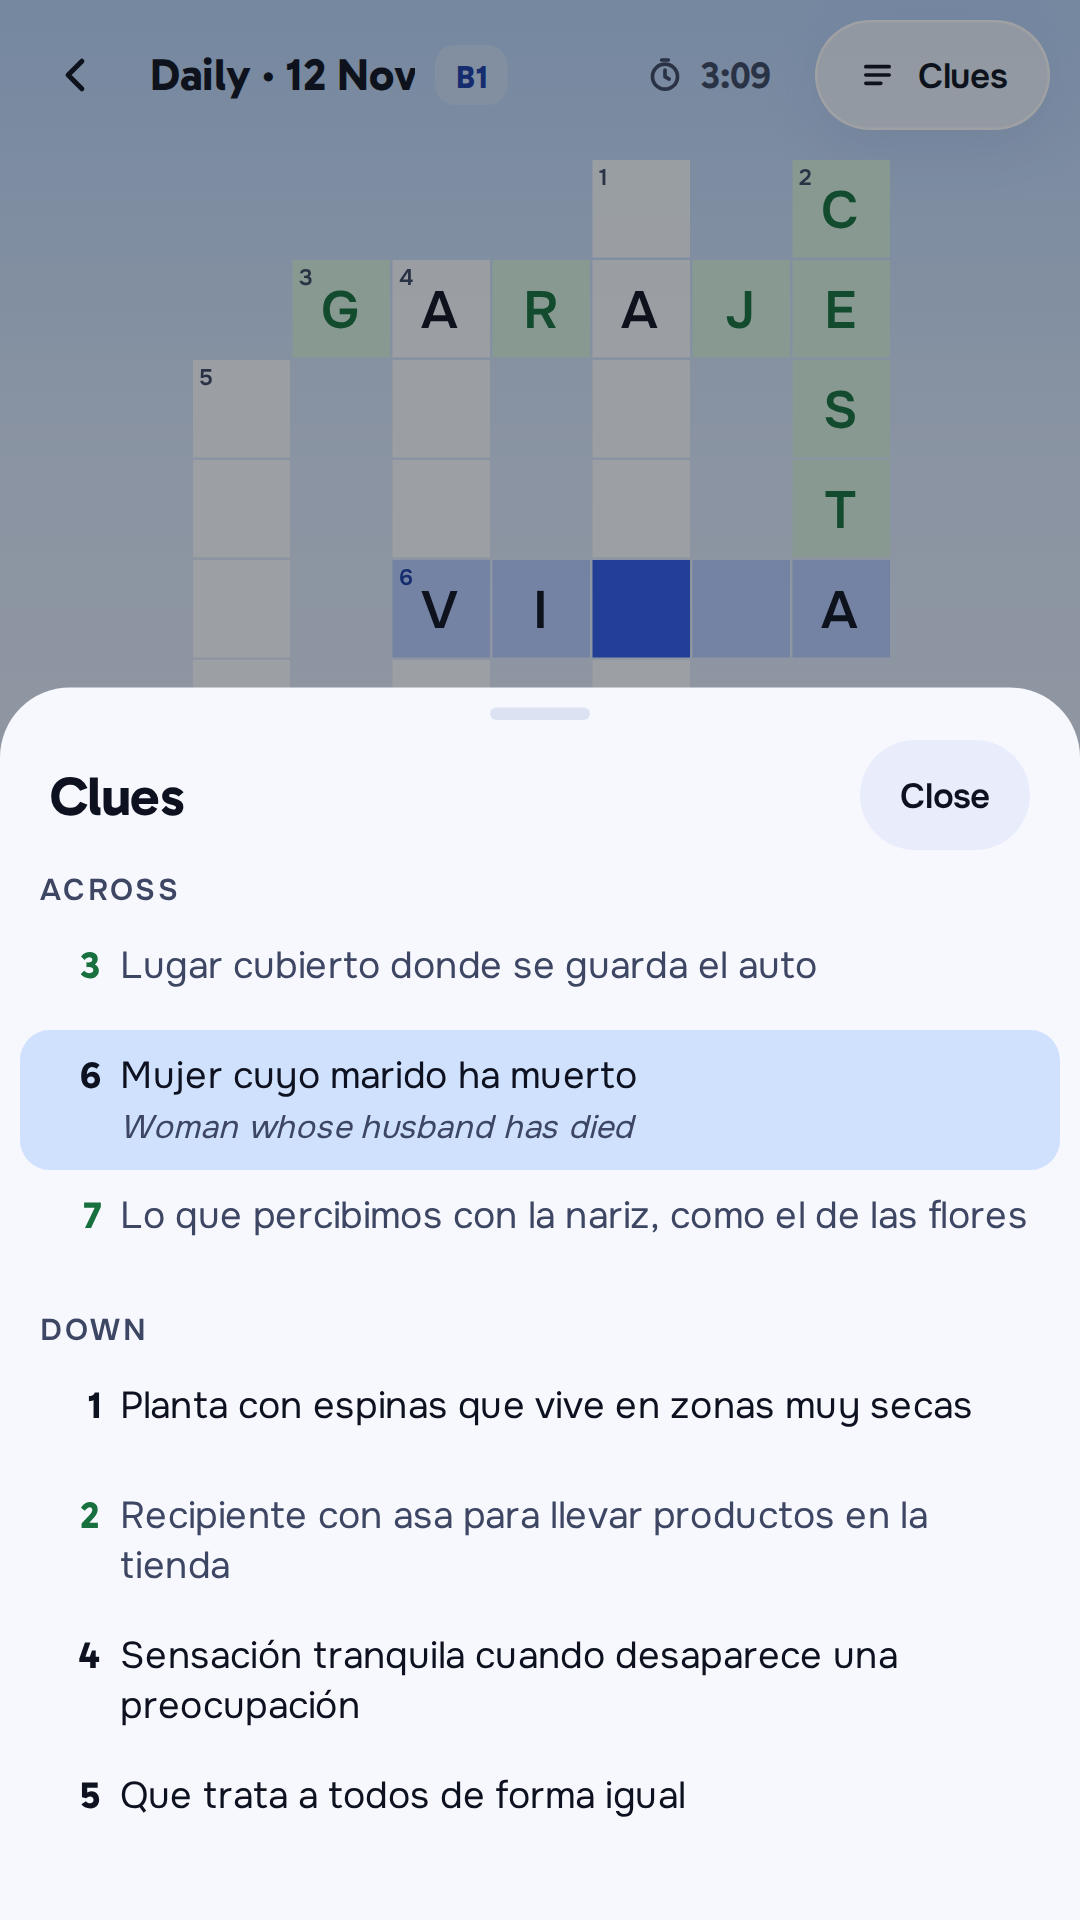
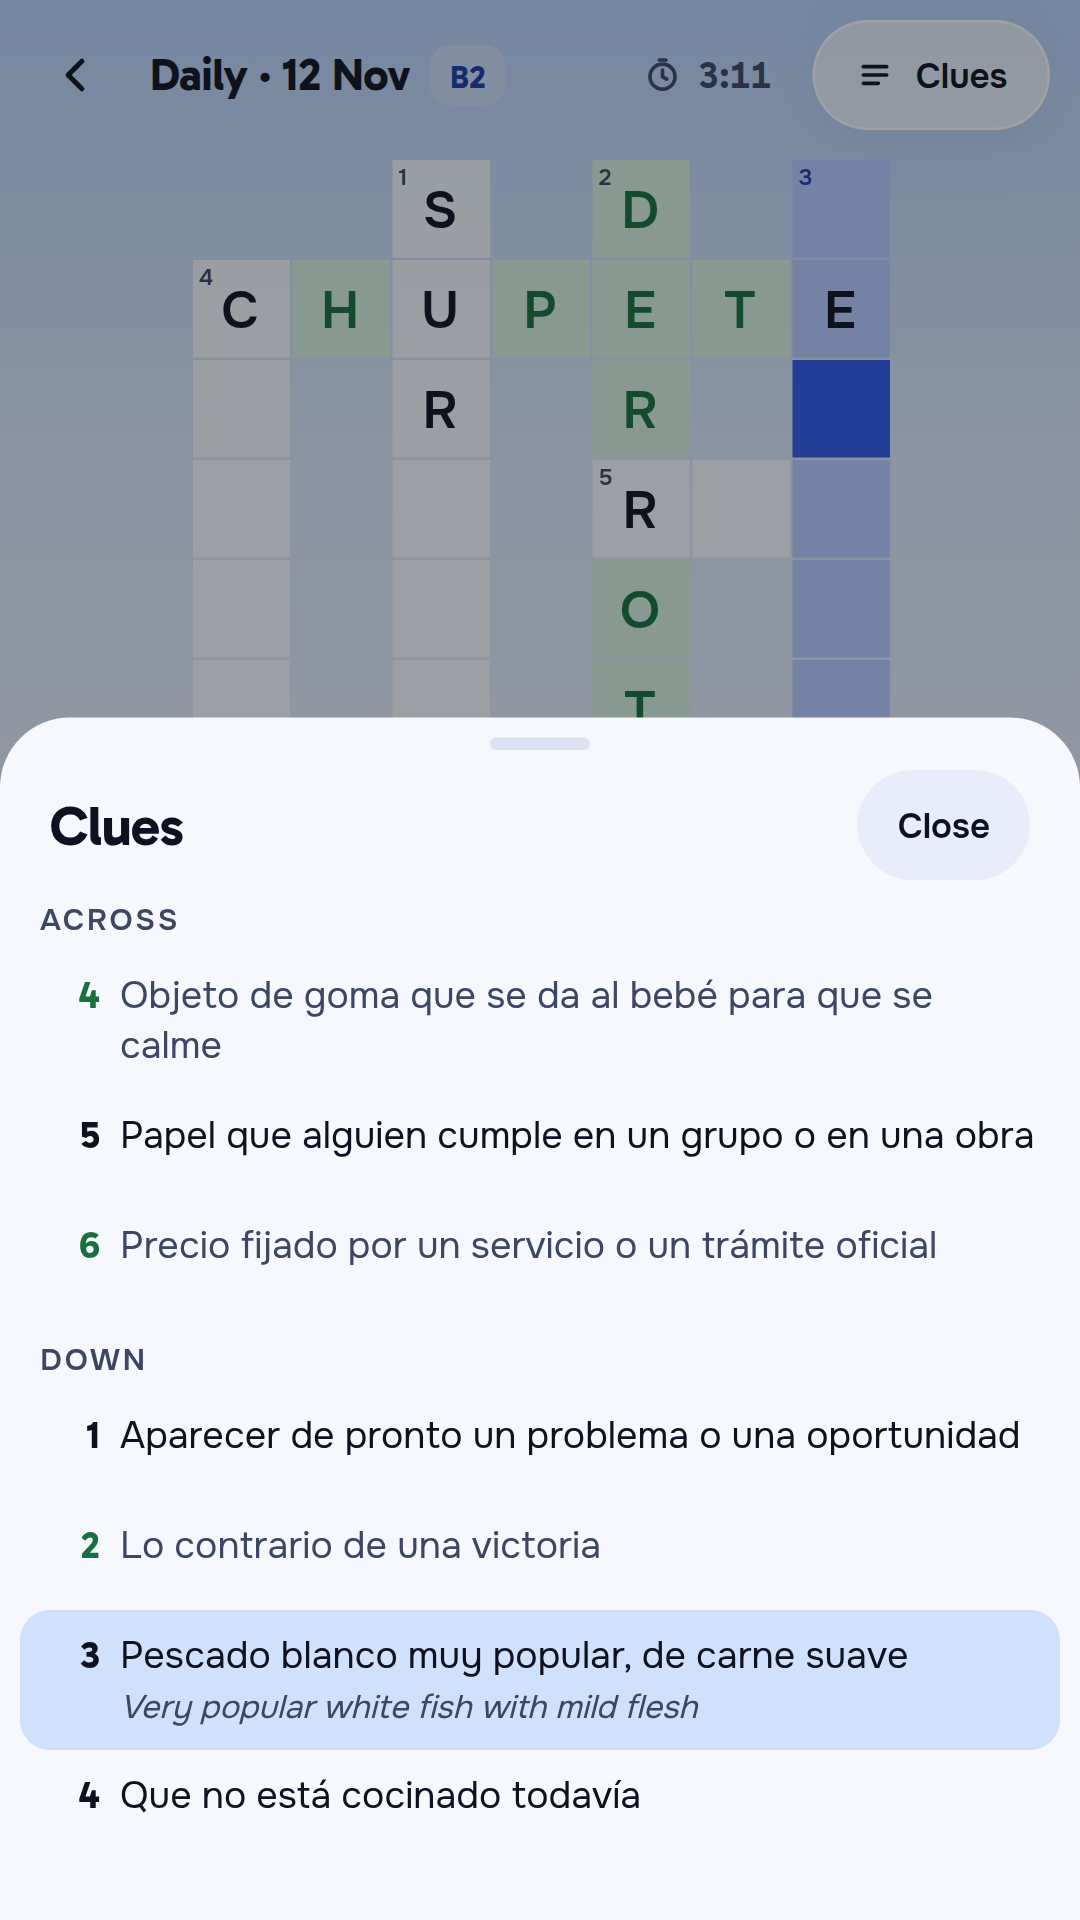
Replace widow clue in store screenshots (#33)
Shots 2 and 3 now use the B2 daily with 3 Down (merluza) selected and
translated.

diff --git a/store/screenshots/README.md b/store/screenshots/README.md
@@ -27,7 +27,7 @@ One shot per unique screen, no repeats. Web dev build in headless Chrome with se
 | # | Headline | Screen |
 |---|---|---|
 | 1 | Learn Spanish with Crosswords | Today: 4-day streak, A2 solved, B1/B2 in progress, Continue practice |
-| 2 | Solve Crosswords to Learn Spanish | B1 daily mid-solve, clue translated |
-| 3 | Use Clues and Learn Naturally | Clues list sheet over the B1 daily |
+| 2 | Solve Crosswords to Learn Spanish | B2 daily mid-solve, 3 Down (merluza) translated |
+| 3 | Use Clues and Learn Naturally | Clues list sheet over the B2 daily |
 | 4 | Build Your Vocabulary | Completion card over the solved A2 daily |
 | 5 | Choose a Level and a Theme | Practice picker, B1 and Food selected |
